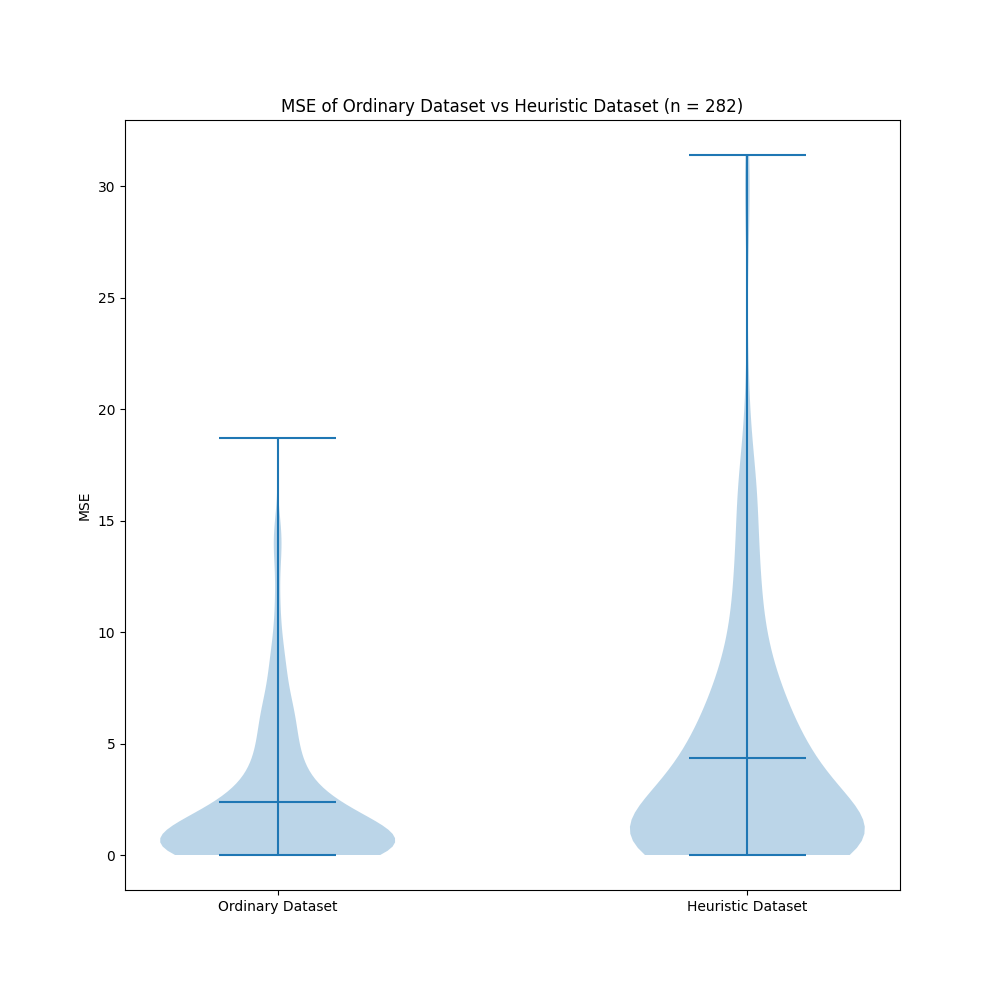
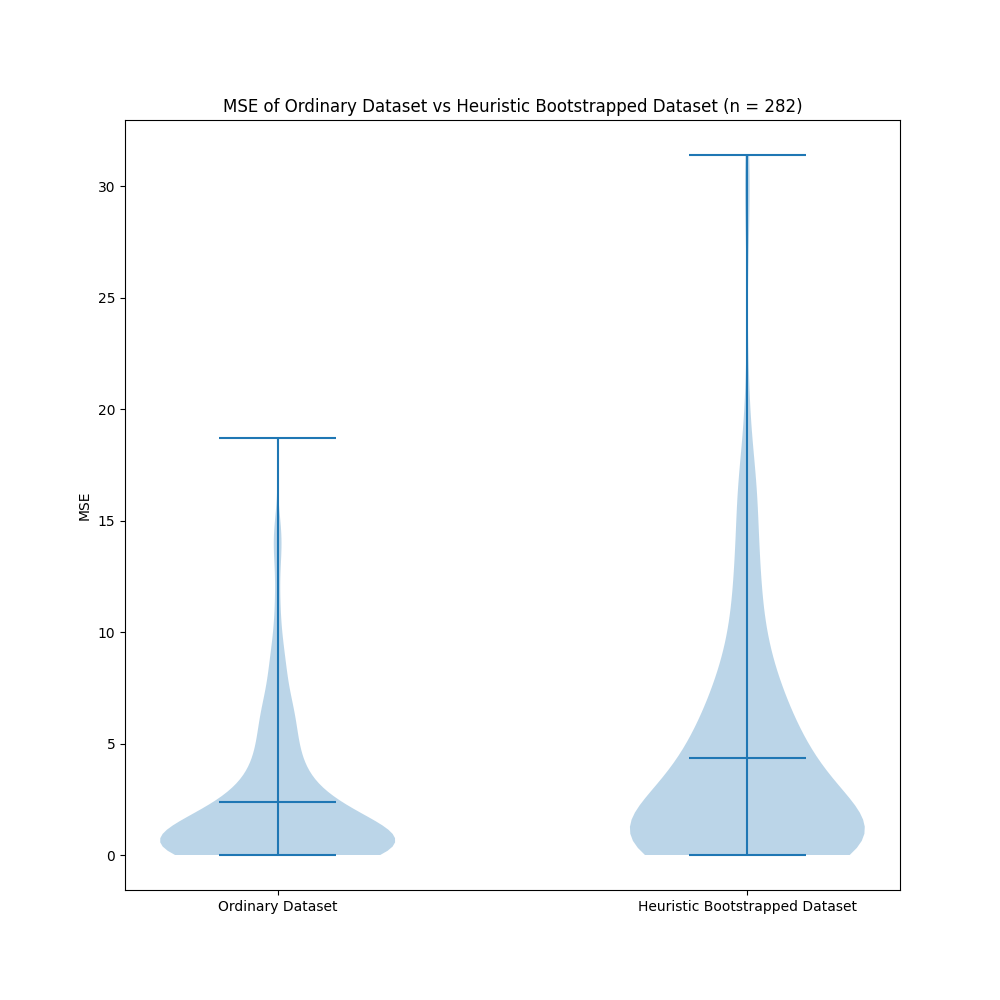
plot & discard gold method

Changed region(s): [[0.217, 0.093, 0.806, 0.124], [0.651, 0.899, 0.868, 0.93]]

diff --git a/plot_label_preds.py b/plot_label_preds.py
@@ -53,7 +53,7 @@ def eval_on_named_dataset(model_path,
         })
     return eval_dict
 
-def plot_2_dicts(eval_dict1, eval_dict2, predplot_path, mse_path):
+def plot_bootstrap_ordinary_preds(eval_dict1, eval_dict2, predplot_path, mse_path):
     import matplotlib.pyplot as plt
     import numpy as np
 
@@ -73,12 +73,28 @@ def plot_2_dicts(eval_dict1, eval_dict2, predplot_path, mse_path):
     label12 = np.array(label12)
     pred2 = np.array(pred2)
     # label2 = np.array(label2)
-
+    
+    # 3 pearson
+    from scipy.stats import pearsonr
+    boostrapped_label_pred_corr = pearsonr(pred2.squeeze(1), label12.squeeze(1))
+    ordinary_label_pred_corr = pearsonr(pred1.squeeze(1), label12.squeeze(1))
+    mutual_pred_corr = pearsonr(pred1.squeeze(1), pred2.squeeze(1))
+    # print
+    print(f"Ordinary Dataset Label-Prediction Correlation: {ordinary_label_pred_corr[0]:.4f}, p-value: {ordinary_label_pred_corr[1]:.4f}")
+    print(f"Heuristic Dataset Label-Prediction Correlation: {boostrapped_label_pred_corr[0]:.4f}, p-value: {boostrapped_label_pred_corr[1]:.4f}")
+    print(f"Mutual Prediction Correlation: {mutual_pred_corr[0]:.4f}, p-value: {mutual_pred_corr[1]:.4f}")
     # Plot the predictions
     plt.figure(figsize=(10, 10))
     plt.scatter(pred1, label12, alpha=0.75, label="Ordinary Dataset")
     plt.scatter(pred2, label12, alpha=0.75, label="Heuristic Dataset")
     plt.scatter(label12, label12, alpha=0.75, label="Labels")
+    # print the correlations onto the plot, only corr values
+    # right-down corner
+    # plt.text(0.95, 0.05, f"Ordinary Dataset Label-Prediction Correlation: {ordinary_label_pred_corr[0]:.4f}", transform=plt.gca().transAxes, fontsize=12, verticalalignment='bottom', horizontalalignment='right')
+    # plt.text(0.95, 0.10, f"Heuristic Dataset Label-Prediction Correlation: {boostrapped_label_pred_corr[0]:.4f}", transform=plt.gca().transAxes, fontsize=12, verticalalignment='bottom', horizontalalignment='right')
+    # plt.text(0.95, 0.15, f"Mutual Prediction Correlation: {mutual_pred_corr[0]:.4f}", transform=plt.gca().transAxes, fontsize=12, verticalalignment='bottom', horizontalalignment='right')
+    # plt.plot([0, 15], [0, 15], color='black', linestyle='--', label="y = x")
+    
     plt.xlabel("Predictions")
     plt.ylabel("True Labels")
     plt.title("Predictions vs True Labels (n = {})".format(len(common_names)))
@@ -90,11 +106,20 @@ def plot_2_dicts(eval_dict1, eval_dict2, predplot_path, mse_path):
     # Plot the MSE of Ordinary Dataset & Heuristic Dataset
     mse1 = np.array([eval_dict1[name]["mse"] for name in common_names])
     mse2 = np.array([eval_dict2[name]["mse"] for name in common_names])
+    mse_gap = mse2 - mse1 # heuristic - ordinary
+    # find big mse2 but small mse1 indices
+    big_mse2_indices = np.where((mse2 > 10) & (mse1 < 2.5) & (mse_gap > 10))[0]
     plt.figure(figsize=(10, 10))
-    plt.scatter(mse1, mse2, alpha=0.75)
+    plt.scatter(mse1, mse2, alpha=0.75, label="Normal Points")
+    # big mse2 indices then plot them in red and their structure names on the graph
+    for i in big_mse2_indices:
+        plt.text(mse1[i], mse2[i], common_names[i], fontsize=8, color='black')
+    plt.scatter(mse1[big_mse2_indices], mse2[big_mse2_indices], color='red', label='Big MSE Gap')
+    # legend for red
+    plt.legend()
     plt.xlabel("Ordinary Dataset MSE")
     plt.ylabel("Heuristic Dataset MSE")
-    plt.title("MSE of Ordinary Dataset vs Heuristic Dataset (n = {})".format(len(common_names)))
+    plt.title("MSE of Ordinary Dataset vs Heuristic Bootstrapped Dataset (n = {})".format(len(common_names)))
     plt.savefig(mse_path)
     plt.tight_layout()
     plt.clf()
@@ -103,9 +128,9 @@ def plot_2_dicts(eval_dict1, eval_dict2, predplot_path, mse_path):
     # violin graph about mse1 and mse2
     plt.figure(figsize=(10, 10))
     plt.violinplot([mse1, mse2], showmeans=True)
-    plt.xticks([1, 2], ["Ordinary Dataset", "Heuristic Dataset"])
+    plt.xticks([1, 2], ["Ordinary Dataset", "Heuristic Bootstrapped Dataset"])
     plt.ylabel("MSE")
-    plt.title("MSE of Ordinary Dataset vs Heuristic Dataset (n = {})".format(len(common_names)))
+    plt.title("MSE of Ordinary Dataset vs Heuristic Bootstrapped Dataset (n = {})".format(len(common_names)))
     plt.savefig(mse_path.replace(".png", "_violin.png"))
     plt.tight_layout()
     plt.clf()
@@ -115,10 +140,10 @@ def plot_2_dicts(eval_dict1, eval_dict2, predplot_path, mse_path):
     plt.figure(figsize=(10, 10))
 
     plt.violinplot([abs(pred1.squeeze(1) - label12.squeeze(1)), abs(pred2.squeeze(1) - label12.squeeze(1))], showmeans=True)
-    plt.xticks([1, 2], ["Ordinary Dataset", "Heuristic Dataset"])
+    plt.xticks([1, 2], ["Ordinary Dataset", "Heuristic Bootstrapped Dataset"])
     plt.ylabel("Label-Pred Gap")
-    plt.title("Label-Pred Gap of Ordinary Dataset vs Heuristic Dataset (n = {})".format(len(common_names)))
-    plt.savefig(mse_path.replace(".png", "_label_pred_gap_violin.png"))
+    plt.title("Label-Pred Gap of Ordinary Dataset vs Heuristic Bootstrapped Dataset (n = {})".format(len(common_names)))
+    plt.savefig(mse_path.replace("_mse.png", "_label_pred_gap_violin.png"))
     plt.tight_layout()
     
 def main():
@@ -143,7 +168,7 @@ def main():
         num_workers=args.num_workers,
     )
     
-    plot_2_dicts(
+    plot_bootstrap_ordinary_preds(
         real_eval_dict,
         pred_eval_dict_heu,
         predplot_path="visual/real_vs_heu_preds.png",

diff --git a/data_processing/cif_parsing.py b/data_processing/cif_parsing.py
@@ -1,6 +1,8 @@
 from Bio.PDB import MMCIFParser
 import numpy as np
 import random
+from openbabel import pybel
+import os
 
 # def cif_parsing_demo(name="1a30"):
 #     cplx_path = f"../data/complexes_16/{name}/pred.rank_0.cif"
@@ -141,16 +143,28 @@ class FeatureExtractorCIF():
         
         return encoding
     
-    def get_features(self, complex_structure, encoding_type="heuristic"):
+    def get_features(self, complex_structure, encoding_type="heuristic", complex_dir=None):
         if encoding_type == "heuristic":
             return self.get_features_by_heuristic(complex_structure)
         elif encoding_type == "gold":
-            return self.get_features_by_reading_pdb(complex_structure, complex_structure)
+            if complex_dir is None:
+                structure_id = complex_structure.id
+                # 自动判断目录
+                for base in ["data/CASF-2016/coreset", "data/refined-set"]:
+                    candidate = os.path.join(base, structure_id)
+                    if os.path.exists(candidate):
+                        complex_dir = candidate
+                        break
+                if complex_dir is None:
+                    raise FileNotFoundError(f"Cannot find pdb for {structure_id}")
+            return self.get_features_by_reading_gold(complex_structure, complex_dir)
         
-    def get_features_by_reading_pdb(self, complex_structure, pdb_path):
+    def get_features_by_reading_gold(self, complex_structure, complex_dir):
         # read the hybridization from original pdb
-        # TODO
-        raise NotImplementedError("This method is not implemented yet.")
+        """
+        从PDB和MOL2文件中提取金标准杂化状态特征
+        """
+        raise NotImplementedError("This method is not implemented yet. Please use 'heuristic' encoding instead.")
     
     def get_features_by_heuristic(self, complex_structure):
         coords_protein = []

diff --git a/data_processing/pdb_parsing.py b/data_processing/pdb_parsing.py
@@ -39,14 +39,14 @@ class FeatureExtractorPDB():
     def get_features(self, molecule, molprotein):
         coords = []
         features = []
-            
+        
         for atom in molecule:
             coords.append(atom.coords)
-            if atom.atomicnum in [6,7,16]:
-                atomicnum = (atom.atomicnum,atom.hyb)
-                features.append(self.encode(atomicnum,molprotein))
+            if atom.atomicnum in [6, 7, 16]:
+                atomicnum = (atom.atomicnum, atom.hyb)
+                features.append(self.encode(atomicnum, molprotein))
             else:
-                features.append(self.encode(atom.atomicnum,molprotein))
+                features.append(self.encode(atom.atomicnum, molprotein))
         
         coords = np.array(coords, dtype=np.float32) # shape [num_atoms, 3]
         features = np.array(features, dtype=np.float32) # shape [num_atoms, 28]

diff --git a/data_processing/create_pred_dataset.py b/data_processing/create_pred_dataset.py
@@ -84,4 +84,4 @@ test_dataset = HFDataset.from_dict(
 )
 
 # Save the dataset to disk
-test_dataset.save_to_disk("data/heuristic_pred_test")
+test_dataset.save_to_disk(f"data/{args.encoding}_pred_test")
